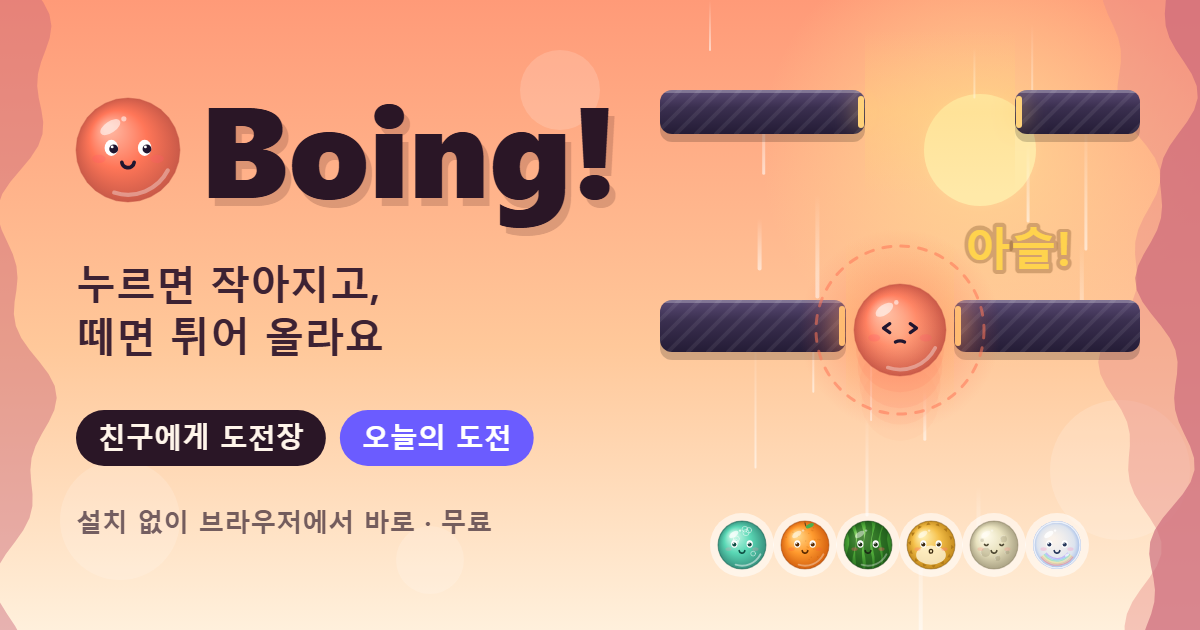
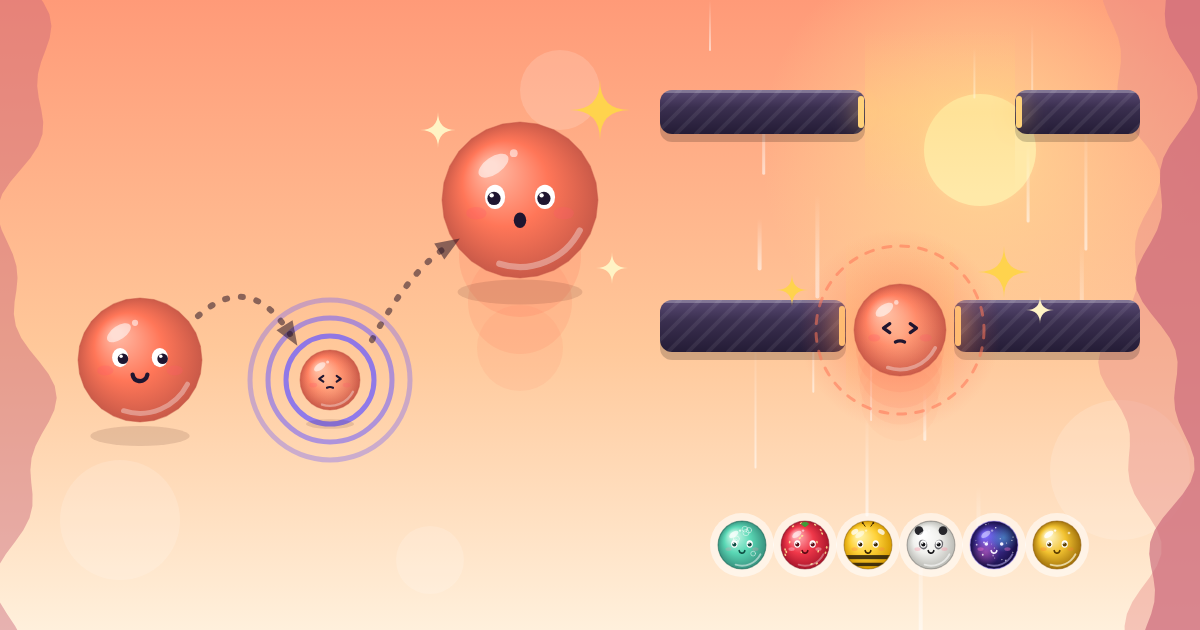
공유 미리보기 이미지를 글자 없는 공용 그림으로 변경
받는 사람의 언어와 상관없이 같은 미리보기가 나가므로 이미지에서 한글 문구를 뺐다.
기본 이미지는 누르기→작아짐→튀어 오름 그림, 도전장 이미지는 봉투와 두 캐릭터의 맞대결 그림.
아래 외형 줄에 새 외형(딸기·꿀벌·판다·은하·황금)을 보여 준다.

diff --git a/tools/thumbnail.html b/tools/thumbnail.html
@@ -3,7 +3,8 @@
 <head>
 <meta charset="utf-8">
 <title>Boing! 썸네일</title>
-<!-- 공유 미리보기 이미지(1200×630) 원본. node tools/make-thumbnail.js 가 이 페이지를 찍어 web/og-image.png 로 저장한다. -->
+<!-- 공유 미리보기 이미지(1200×630) 원본. node tools/make-thumbnail.js 가 이 페이지를 찍어 web/og-image.png 로 저장한다.
+     글자를 넣지 않는다: 미리보기는 받는 사람의 언어와 상관없이 하나이므로 그림만으로 전한다(제목·설명은 meta 태그가 담당). -->
 <style>
   html, body { margin: 0; width: 1200px; height: 630px; overflow: hidden; }
   body { font-family: "Pretendard", "Malgun Gothic", "Apple SD Gothic Neo", sans-serif; }
@@ -91,63 +92,88 @@
   // 예상 반동 링
   ctx.strokeStyle = 'rgba(255,118,88,0.55)'; ctx.lineWidth = 3; ctx.setLineDash([8, 10]);
   ctx.beginPath(); ctx.arc(px, py, 84, 0, Math.PI * 2); ctx.stroke(); ctx.setLineDash([]);
-  // "아슬!"
-  ctx.font = '900 46px "Malgun Gothic", sans-serif'; ctx.textAlign = 'center';
-  ctx.lineWidth = 8; ctx.strokeStyle = 'rgba(80,40,0,0.25)'; ctx.strokeText('아슬!', px + 118, py - 64);
-  ctx.fillStyle = '#ffd34d'; ctx.fillText('아슬!', px + 118, py - 64);
+  // 아슬아슬 반짝임(틈 가장자리)
+  sparkle(px + 104, py - 58, 26, '#ffd34d'); sparkle(px + 140, py - 20, 14, '#fff3c4'); sparkle(px - 108, py - 40, 16, '#ffd34d');
 
   // 아래쪽 스킨들
-  var skins = ['slime', 'orange', 'watermelon', 'puffer', 'moon', 'glass'];
+  var skins = ['slime', 'strawberry', 'bee', 'panda', 'galaxy', 'gold'];
   skins.forEach(function (id, i) {
     var x = sx + 52 + i * 63, y = 545, r = 24;
     ctx.fillStyle = 'rgba(255,255,255,0.55)'; ctx.beginPath(); ctx.arc(x, y, r + 8, 0, Math.PI * 2); ctx.fill();
     KKUK.Skins.paint(id, { ctx: ctx, x: x, y: y, r: r, held: false, energy: 0, dead: false, danger: 0, now: 0, wob: 0, phase: 0, look: 0, blink: false, expanded: false });
   });
 
-  // ── 왼쪽: 제목·문구 (?v=challenge 이면 도전장 카드용) ──
+  // ── 왼쪽: 그림만 (?v=challenge 이면 도전장 카드용) ──
   var challenge = /[?&]v=challenge/.test(location.search);
-  ctx.textAlign = 'left';
-  function pill(x, y, text, bgc, fg, size) {
-    ctx.font = '800 ' + (size || 28) + 'px "Malgun Gothic", sans-serif';
-    var w = ctx.measureText(text).width + 44;
-    ctx.fillStyle = bgc; rr(x, y, w, 56, 28); ctx.fill();
-    ctx.fillStyle = fg; ctx.fillText(text, x + 22, y + 38);
-    return w;
+  function ball(id, x, y, r, st) {
+    ctx.fillStyle = 'rgba(60,20,20,0.12)'; ctx.beginPath(); ctx.ellipse(x, y + r + 14, r * 0.8, r * 0.16, 0, 0, Math.PI * 2); ctx.fill();
+    KKUK.Skins.paint(id, Object.assign({ ctx: ctx, x: x, y: y, r: r, held: false, energy: 0, dead: false, danger: 0, now: 0, wob: 0, phase: 0, look: 0, blink: false, expanded: false }, st || {}));
+  }
+  function arrow(x0, y0, cx, cy, x1, y1) {
+    ctx.strokeStyle = 'rgba(42,22,38,0.55)'; ctx.lineWidth = 6; ctx.lineCap = 'round'; ctx.setLineDash([2, 14]);
+    ctx.beginPath(); ctx.moveTo(x0, y0); ctx.quadraticCurveTo(cx, cy, x1, y1); ctx.stroke(); ctx.setLineDash([]);
+    var a = Math.atan2(y1 - cy, x1 - cx);
+    ctx.fillStyle = 'rgba(42,22,38,0.55)'; ctx.beginPath();
+    ctx.moveTo(x1 + Math.cos(a) * 14, y1 + Math.sin(a) * 14);
+    ctx.lineTo(x1 + Math.cos(a + 2.4) * 14, y1 + Math.sin(a + 2.4) * 14);
+    ctx.lineTo(x1 + Math.cos(a - 2.4) * 14, y1 + Math.sin(a - 2.4) * 14); ctx.closePath(); ctx.fill();
   }
   if (!challenge) {
-    KKUK.Skins.paint('base', { ctx: ctx, x: 128, y: 150, r: 52, held: false, energy: 0, dead: false, danger: 0, now: 0, wob: 0, phase: 0, look: 1, blink: false, expanded: false });
-    // 게임 이름(글로벌 이름). 오른쪽 게임 장면(x≈650~)을 침범하지 않도록 폭에 맞춰 크기 조절
-    var TITLE = 'Boing!', size = 132;
-    do { ctx.font = '900 ' + size + 'px "Segoe UI Black", "Arial Black", "Malgun Gothic", sans-serif'; size -= 4; } while (ctx.measureText(TITLE).width > 420 && size > 60);
-    ctx.fillStyle = 'rgba(60,20,20,0.18)'; ctx.fillText(TITLE, 206, 206);
-    ctx.fillStyle = '#2a1626'; ctx.fillText(TITLE, 200, 198);
-    ctx.font = '700 40px "Malgun Gothic", sans-serif'; ctx.fillStyle = '#3d2233';
-    ctx.fillText('누르면 작아지고,', 76, 300);
-    ctx.fillText('떼면 튀어 올라요', 76, 352);
-    var bx = 76;
-    bx += pill(bx, 410, '친구에게 도전장', '#2a1626', '#fff5ea') + 14;
-    pill(bx, 410, '오늘의 도전', '#6b5cff', '#ffffff');
-    ctx.font = '600 26px "Malgun Gothic", sans-serif'; ctx.fillStyle = 'rgba(42,22,38,0.65)';
-    ctx.fillText('설치 없이 브라우저에서 바로 · 무료', 76, 532);
+    // 누르기 → 작아짐 → 떼면 튀어 오름
+    ball('base', 140, 360, 62, { look: 1 });
+    // 누르는 손가락 자리: 동심원
+    [44, 62, 80].forEach(function (rad, i) {
+      ctx.strokeStyle = 'rgba(107,92,255,' + (0.75 - i * 0.2) + ')'; ctx.lineWidth = 5;
+      ctx.beginPath(); ctx.arc(330, 380, rad, 0, Math.PI * 2); ctx.stroke();
+    });
+    ball('base', 330, 380, 30, { held: true, energy: 0.8 });
+    // 떼면 튀어 오름: 위로 솟는 잔상 + 큰 몸
+    for (var k = 3; k >= 1; k--) { ctx.fillStyle = 'rgba(255,118,88,' + (0.1 + (3 - k) * 0.05) + ')'; ctx.beginPath(); ctx.arc(520, 210 + k * 46, 70 - k * 9, 0, Math.PI * 2); ctx.fill(); }
+    ball('base', 520, 200, 78, { expanded: true, look: -0.3 });
+    sparkle(600, 110, 30, '#ffd34d'); sparkle(438, 130, 18, '#fff3c4'); sparkle(612, 268, 16, '#fff3c4');
+    arrow(198, 316, 250, 270, 290, 334);
+    arrow(372, 340, 410, 270, 448, 246);
   } else {
-    // 봉투 모양 배지 + 큰 제목
-    ctx.save(); ctx.translate(76, 70);
-    ctx.font = '800 30px "Malgun Gothic", sans-serif';
-    var badgeW = ctx.measureText('Boing! 도전장').width + 90;
-    ctx.fillStyle = '#2a1626'; rr(0, 0, badgeW, 64, 32); ctx.fill();
-    ctx.fillStyle = '#ffd34d'; ctx.fillText('Boing! 도전장', 64, 43);
-    ctx.strokeStyle = '#ffd34d'; ctx.lineWidth = 3.5; ctx.lineJoin = 'round';
-    rr(20, 18, 34, 26, 4); ctx.stroke(); ctx.beginPath(); ctx.moveTo(22, 21); ctx.lineTo(37, 33); ctx.lineTo(52, 21); ctx.stroke();
+    // 봉투(빨간 별 봉인) → 두 캐릭터의 맞대결
+    ctx.save(); ctx.translate(250, 170); ctx.rotate(-0.08);
+    ctx.fillStyle = 'rgba(60,20,20,0.16)'; rr(-150, -88, 300, 190, 18); ctx.fill();
+    ctx.fillStyle = '#fff8ee'; rr(-150, -100, 300, 190, 18); ctx.fill();
+    ctx.strokeStyle = '#e8cfb4'; ctx.lineWidth = 5; ctx.lineJoin = 'round';
+    ctx.beginPath(); ctx.moveTo(-146, -94); ctx.lineTo(0, 12); ctx.lineTo(146, -94); ctx.stroke();
+    ctx.beginPath(); ctx.moveTo(-146, 84); ctx.lineTo(-40, -10); ctx.moveTo(146, 84); ctx.lineTo(40, -10); ctx.stroke();
+    ctx.fillStyle = '#c2364a'; ctx.beginPath(); ctx.arc(0, 12, 34, 0, Math.PI * 2); ctx.fill();
+    star(0, 12, 20, '#ffd34d');
     ctx.restore();
-    ctx.font = '900 104px "Malgun Gothic", sans-serif';
-    ctx.fillStyle = 'rgba(60,20,20,0.18)'; ctx.fillText('도전장', 82, 262);
-    ctx.fillStyle = '#2a1626'; ctx.fillText('도전장', 76, 256);
-    ctx.fillStyle = '#c2364a'; ctx.fillText('도착!', 76, 372);
-    ctx.font = '700 38px "Malgun Gothic", sans-serif'; ctx.fillStyle = '#3d2233';
-    ctx.fillText('같은 코스에서 나를 이겨 봐', 76, 446);
-    var cx2 = 76;
-    cx2 += pill(cx2, 480, '같은 코스 1:1', '#2a1626', '#fff5ea', 26) + 12;
-    pill(cx2, 480, '설치 없이 바로', '#6b5cff', '#ffffff', 26);
+    sparkle(420, 70, 26, '#ffd34d'); sparkle(84, 260, 18, '#fff3c4');
+    // 맞대결
+    ball('base', 150, 450, 70, { look: 1 });
+    ball('slime', 470, 450, 70, { look: -1 });
+    burst(310, 440, 58, '#ffd34d', '#ff8a3d');
+    bolt(310, 440, 40);
+  }
+  // 4갈래 반짝임
+  function sparkle(x, y, s, col) {
+    ctx.fillStyle = col; ctx.beginPath();
+    ctx.moveTo(x, y - s); ctx.quadraticCurveTo(x, y, x + s, y); ctx.quadraticCurveTo(x, y, x, y + s); ctx.quadraticCurveTo(x, y, x - s, y); ctx.quadraticCurveTo(x, y, x, y - s);
+    ctx.fill();
+  }
+  function star(x, y, r, col) {
+    ctx.fillStyle = col; ctx.beginPath();
+    for (var i = 0; i < 10; i++) { var a = -Math.PI / 2 + i * Math.PI / 5, rr2 = i % 2 ? r * 0.45 : r; ctx.lineTo(x + Math.cos(a) * rr2, y + Math.sin(a) * rr2); }
+    ctx.closePath(); ctx.fill();
+  }
+  function burst(x, y, r, col, edge) {
+    ctx.fillStyle = edge; ctx.beginPath();
+    for (var i = 0; i < 24; i++) { var a = i * Math.PI / 12, q = i % 2 ? r * 0.62 : r * 1.08; ctx.lineTo(x + Math.cos(a) * q, y + Math.sin(a) * q); }
+    ctx.closePath(); ctx.fill();
+    ctx.fillStyle = col; ctx.beginPath();
+    for (var j = 0; j < 24; j++) { var b = j * Math.PI / 12 + 0.13, q2 = j % 2 ? r * 0.5 : r * 0.88; ctx.lineTo(x + Math.cos(b) * q2, y + Math.sin(b) * q2); }
+    ctx.closePath(); ctx.fill();
+  }
+  function bolt(x, y, h) {
+    ctx.fillStyle = '#2a1626'; ctx.beginPath();
+    ctx.moveTo(x + h * 0.15, y - h); ctx.lineTo(x - h * 0.45, y + h * 0.12); ctx.lineTo(x - h * 0.02, y + h * 0.12);
+    ctx.lineTo(x - h * 0.2, y + h); ctx.lineTo(x + h * 0.45, y - h * 0.18); ctx.lineTo(x + h * 0.02, y - h * 0.18); ctx.closePath(); ctx.fill();
   }
 
   document.title = 'ready';

diff --git a/ASSETS.md b/ASSETS.md
@@ -4,7 +4,7 @@
 |---|---|---|---|
 | 캐릭터·장애물·배경·아이콘 | 코드로 그린 도형(canvas, inline SVG). 고도 구간 테마 5종(새벽·하늘·노을·밤·오로라), 절벽 실루엣, 별·오로라, 돌판 질감 포함 (`web/view.js`) | 이 프로젝트에서 직접 작성 | 가능(자체 제작) |
 | 외형 16종 (젤리·민트 슬라임·오렌지·수박·딸기·복어·꿀벌·판다·털뭉치·도넛·눈덩이·달·유리구슬·용암·은하·황금) | 코드로 그린 도형 (`web/skins.js`) | 이 프로젝트에서 직접 작성 | 가능(자체 제작) |
-| 공유 미리보기 이미지 `web/og-image.png`, 앱 아이콘 | 게임과 같은 그림 코드로 생성(`tools/thumbnail.html`, `tools/make-icons.js`). 글꼴은 생성한 PC의 시스템 글꼴(맑은 고딕)로 그려 이미지에 포함 | 이 프로젝트에서 직접 작성 | 가능. 단 이미지에 그려진 글자는 맑은 고딕·Segoe UI Black(제목 "Boing!") — 배포 이미지 속 글꼴 사용 조건은 출시 전 확인 |
+| 공유 미리보기 이미지 `web/og-image.png`, 앱 아이콘 | 게임과 같은 그림 코드로 생성(`tools/thumbnail.html`, `tools/make-icons.js`). 글자 없이 그림만 사용 | 이 프로젝트에서 직접 작성 | 가능(자체 제작). 2026-10-07부터 이미지에 글자를 넣지 않아(언어 공용) 글꼴 사용 조건 문제 없음 |
 | 효과음 | Web Audio 실시간 합성 (`web/audio.js`) | 이 프로젝트에서 직접 작성, 외부 음원 없음 | 가능(자체 제작) |
 | 글꼴 | 기기 시스템 글꼴 (Pretendard·Apple SD Gothic Neo·Malgun Gothic 순으로 설치된 것 사용) | 앱에 포함·배포하지 않음 | 배포하지 않으므로 별도 라이선스 불필요. 글꼴을 앱에 포함하게 되면 그 글꼴의 라이선스를 여기에 기록 |
 | 배경음악 | Web Audio 실시간 합성 8마디 반복곡(C–G–Am–F–C–G–F–G), 자작 멜로디 (`web/audio.js`) | 이 프로젝트에서 직접 작성, 외부 음원 없음 | 가능(자체 제작) |
